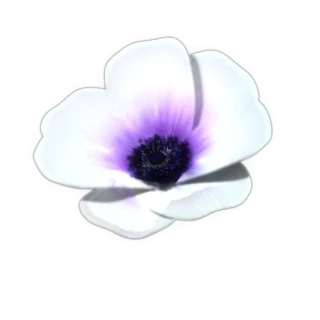
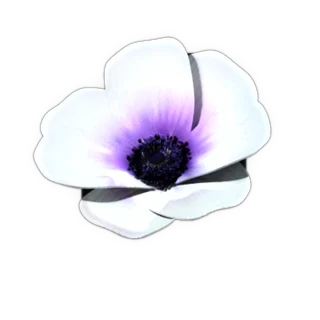
psyche-0.com: the anemone's looks 2 and 3 without the thin line across the white ring, and look 6's lower-petal shadow as deep and crisp as in the owner's model

diff --git a/assets/anemone.js b/assets/anemone.js
@@ -4,7 +4,7 @@
 (function(){
   var mark=document.querySelector("header.site .bar a.mark");
   if(!mark||document.querySelector(".anemone"))return;
-  var M={"size":320,"na":72,"ext":149,"looks":[{"name":"S_L","er":29.21,"prof":[130.4,129.8,128.3,123.7,107.9,108.8,107.9,106.7,105.5,101.9,97.3,94.3,92.2,89.4,84.3,78.2,71.9,63.7,58.5,54.0,52.8,55.2,59.1,63.4,67.6,70.9,72.8,74.3,75.5,77.3,83.7,93.1,102.5,109.5,113.7,116.4,121.0,123.1,121.0,111.3,97.0,103.4,115.2,119.5,115.8,113.1,111.6,107.9,100.7,96.1,96.7,97.9,97.3,96.1,95.8,97.9,101.0,102.8,101.9,100.4,108.5,115.5,118.5,121.0,123.7,123.7,119.8,113.1,108.2,123.1,128.3,129.8]},{"name":"S_F","er":30.89,"prof":[106.3,99.6,100.1,102.7,103.2,103.5,102.5,99.6,95.0,93.4,99.6,102.5,103.5,104.8,105.3,105.0,104.8,102.5,100.6,96.2,92.6,96.0,99.3,101.7,101.7,101.2,99.1,96.2,91.8,87.2,83.3,89.8,96.2,101.7,104.5,104.8,105.0,104.8,104.0,101.7,97.3,98.8,102.2,103.5,103.2,104.0,104.3,104.3,102.5,100.6,97.5,91.1,86.9,90.6,93.7,96.8,98.3,99.3,98.1,96.0,93.4,89.8,85.1,91.6,100.9,105.8,109.7,111.8,112.5,113.3,112.8,111.0]},{"name":"S_R","er":27.4,"prof":[101.3,98.9,98.1,96.5,94.4,89.2,82.9,74.7,68.9,71.0,72.3,72.9,72.6,72.9,73.1,73.1,72.3,72.6,78.6,85.8,93.6,100.0,102.6,104.7,106.5,109.2,110.5,110.2,107.3,101.0,97.3,108.6,114.7,117.6,117.6,116.8,114.7,108.9,110.0,111.8,112.1,110.0,108.9,110.0,110.7,109.4,106.5,101.5,97.9,102.3,104.2,104.7,106.3,106.8,103.6,98.9,93.6,96.5,107.1,113.9,115.5,116.0,116.3,116.3,114.4,111.5,104.7,98.9,103.4,105.0,104.4,103.1]},{"name":"W_R","er":32.65,"prof":[112.7,115.2,119.1,119.9,119.1,117.9,115.4,109.4,99.9,93.2,99.4,102.7,103.7,102.7,99.2,93.9,90.4,86.9,82.7,77.4,80.4,82.4,84.2,86.7,88.9,89.7,89.2,87.4,86.7,85.9,85.9,84.7,82.9,80.7,75.9,68.2,74.9,82.7,89.2,93.9,97.7,100.2,103.2,103.9,101.9,105.2,110.2,112.4,110.9,108.2,105.4,101.4,94.4,103.9,110.9,113.4,114.7,113.9,113.9,114.7,114.4,107.9,95.4,93.4,101.9,107.9,113.2,116.1,116.9,117.1,118.1,116.1]},{"name":"W_F","er":29.98,"prof":[111.1,108.5,102.4,94.5,97.6,102.4,105.5,105.2,104.5,104.0,101.7,98.1,92.7,86.9,85.4,87.4,88.2,88.7,89.4,89.7,89.7,87.6,84.3,80.0,77.5,86.1,92.7,97.6,100.4,102.9,104.5,105.5,105.0,103.7,102.2,100.4,97.1,90.7,93.8,98.9,102.2,104.2,105.2,105.7,104.0,100.1,100.4,105.2,106.5,106.8,106.8,106.0,103.4,100.9,96.8,89.9,92.2,100.9,105.7,108.0,108.8,109.6,109.6,108.8,106.5,104.0,102.4,107.5,110.1,111.9,112.9,112.6]},{"name":"W_L","er":27.13,"prof":[82.6,85.2,90.9,94.3,94.6,93.7,90.6,83.7,77.5,73.8,72.3,70.6,69.2,66.9,64.4,61.5,64.4,67.2,70.3,73.5,77.8,81.5,83.7,85.2,85.7,86.6,88.9,91.4,94.3,94.8,93.7,83.2,84.0,98.8,113.3,121.3,126.2,125.6,121.0,124.2,124.5,120.5,114.8,112.2,109.1,102.5,94.0,96.8,109.4,113.9,117.1,119.9,120.5,120.8,121.9,123.0,119.3,108.5,115.3,121.3,123.9,123.3,122.7,123.3,122.7,119.0,115.1,116.8,116.5,115.1,110.5,97.7]},{"name":"P_L","er":31.34,"prof":[115.1,108.5,117.6,125.0,129.3,131.0,130.4,128.2,119.0,111.4,102.8,92.0,83.2,80.6,77.8,73.5,70.1,68.4,66.9,65.5,63.8,61.5,60.9,63.2,64.6,67.8,70.9,74.3,79.2,85.7,92.8,98.3,101.4,104.0,107.1,107.1,104.5,101.4,109.4,117.6,123.9,125.6,123.3,116.5,107.4,91.4,101.4,106.5,107.4,107.7,107.4,106.2,104.2,102.0,99.7,99.7,101.4,104.0,106.8,109.4,108.5,107.7,106.5,105.7,103.7,98.8,107.4,113.6,116.5,116.2,115.9,116.2]},{"name":"P_F","er":33.0,"prof":[97.3,98.8,98.3,97.0,96.0,94.0,90.2,85.6,87.1,93.0,97.5,101.6,103.7,104.2,104.7,105.7,104.7,101.9,97.0,91.4,84.6,83.0,89.6,93.0,94.2,95.5,96.3,96.3,95.5,93.5,99.1,104.7,108.0,110.5,112.1,111.8,111.3,109.5,106.2,101.1,94.5,96.3,100.1,101.1,100.9,101.1,101.1,99.1,96.0,91.7,88.4,95.8,100.9,103.4,104.9,107.0,108.2,108.2,106.2,102.6,96.5,100.9,104.7,106.7,108.0,109.5,110.3,109.8,107.5,102.9,95.8,94.7]},{"name":"P_R","er":31.89,"prof":[96.5,92.3,87.7,84.0,80.7,76.8,72.1,69.3,72.6,76.5,80.1,82.7,85.3,88.7,91.0,92.9,93.9,95.4,97.0,97.0,94.4,95.7,99.9,104.3,107.9,110.2,111.8,113.1,112.6,109.2,100.1,79.6,92.9,104.3,112.8,116.7,117.5,117.0,114.4,111.8,108.9,104.8,101.9,103.5,103.7,103.0,101.9,100.9,96.7,90.8,83.5,93.1,103.5,109.5,112.8,112.6,111.8,110.7,109.5,105.0,103.2,110.0,113.3,114.9,115.4,115.4,113.9,108.9,102.2,98.3,99.1,98.6]},{"name":"C_R","er":43.51,"prof":[109.8,109.2,107.1,106.6,106.4,103.7,99.0,91.9,82.5,82.8,84.3,85.4,85.4,85.1,84.9,84.3,82.5,88.8,95.6,102.7,108.2,110.3,111.6,112.4,113.9,113.9,111.9,106.6,95.9,101.6,108.4,112.1,113.2,111.6,110.0,106.6,99.0,100.9,101.6,101.4,99.3,97.2,96.7,97.2,97.7,96.4,93.3,88.5,83.8,88.0,90.6,91.7,92.7,94.8,95.4,93.3,89.6,85.1,84.3,97.2,106.6,110.3,111.6,112.9,113.9,113.7,112.9,109.0,101.9,106.1,108.7,110.3]},{"name":"C_F","er":42.02,"prof":[100.7,93.7,95.7,97.8,98.3,98.3,97.6,95.0,90.8,86.2,93.7,97.8,99.6,100.4,101.2,102.2,102.2,101.7,99.6,97.6,92.9,93.2,97.3,100.9,102.7,102.7,101.7,99.6,96.8,92.4,87.5,90.3,98.1,104.0,107.9,109.7,109.7,109.7,109.5,107.1,102.5,104.0,107.6,108.2,108.2,108.4,108.7,107.9,105.8,103.2,98.6,90.1,91.3,95.0,97.3,99.1,100.1,99.1,96.8,93.7,90.1,85.1,85.7,95.2,101.4,105.1,107.6,108.7,109.2,108.9,107.9,105.6]},{"name":"C_L","er":43.61,"prof":[117.4,118.9,120.4,120.4,119.2,113.5,102.1,106.0,106.3,106.6,105.7,103.9,101.2,100.0,98.8,97.0,92.5,87.4,82.3,75.1,70.3,67.0,70.3,76.0,82.3,86.5,88.6,90.1,91.9,96.1,105.7,115.0,121.6,124.9,127.6,131.5,130.9,124.9,107.2,103.3,115.0,119.5,117.4,112.0,109.0,104.5,96.4,89.2,88.6,88.0,86.8,84.4,82.9,82.6,83.2,85.6,86.5,85.6,83.5,86.8,92.8,97.3,100.3,102.7,105.4,107.5,105.7,102.4,97.3,92.2,108.1,114.7]}],"rot":[15.0,-45.0,45.0,-35.0,-40.0,35.0,-25.0,0.0,30.0,20.0,-15.0,0.0]};
+  var M={"size":320,"na":72,"ext":149,"looks":[{"name":"S_L","er":29.21,"prof":[130.4,129.8,128.3,123.7,107.9,108.8,107.9,106.7,105.5,101.9,97.3,94.3,92.2,89.4,84.3,78.2,71.9,63.7,58.5,54.0,52.8,55.2,59.1,63.4,67.6,70.9,72.8,74.3,75.5,77.3,83.7,93.1,102.5,109.5,113.7,116.4,121.0,123.1,121.0,111.3,97.0,103.4,115.2,119.5,115.8,113.1,111.6,107.9,100.7,96.1,96.7,97.9,97.3,96.1,95.8,97.9,101.0,102.8,101.9,100.4,108.5,115.5,118.5,121.0,123.7,123.7,119.8,113.1,108.2,123.1,128.3,129.8]},{"name":"S_F","er":30.79,"prof":[106.3,99.3,99.9,102.4,103.2,103.2,102.4,99.3,94.7,93.1,99.3,102.4,103.5,104.5,105.0,105.0,104.5,102.4,100.4,96.8,92.6,96.0,99.1,101.7,101.7,101.1,99.3,96.0,92.1,87.4,83.0,89.8,96.5,101.9,104.8,105.0,105.0,105.0,104.3,101.9,97.5,98.8,102.2,103.7,103.5,104.0,104.3,104.5,102.7,100.6,97.5,91.3,86.9,90.5,93.9,96.8,98.3,99.3,98.3,96.0,93.4,89.8,84.9,91.8,100.9,105.8,109.4,112.0,112.5,113.3,112.5,110.7]},{"name":"S_R","er":27.28,"prof":[101.3,98.9,97.9,96.0,94.2,89.2,82.9,74.5,68.9,71.0,72.4,72.6,72.4,72.6,72.9,73.1,72.1,72.4,78.4,85.5,93.7,99.7,102.6,104.5,106.3,109.2,110.8,110.2,107.3,101.0,97.1,108.7,114.2,117.6,117.6,116.8,114.7,108.9,110.2,111.8,112.1,110.2,108.9,110.0,110.8,109.7,106.8,101.8,98.1,102.3,104.5,104.7,106.6,106.8,103.9,98.9,93.7,96.6,107.1,113.9,115.8,116.0,116.3,116.6,114.4,111.6,104.7,98.9,103.9,104.7,104.5,103.1]},{"name":"W_R","er":32.65,"prof":[112.7,115.2,119.1,119.9,119.1,117.9,115.4,109.4,99.9,93.2,99.4,102.7,103.7,102.7,99.2,93.9,90.4,86.9,82.7,77.4,80.4,82.4,84.2,86.7,88.9,89.7,89.2,87.4,86.7,85.9,85.9,84.7,82.9,80.7,75.9,68.2,74.9,82.7,89.2,93.9,97.7,100.2,103.2,103.9,101.9,105.2,110.2,112.4,110.9,108.2,105.4,101.4,94.4,103.9,110.9,113.4,114.7,113.9,113.9,114.7,114.4,107.9,95.4,93.4,101.9,107.9,113.2,116.1,116.9,117.1,118.1,116.1]},{"name":"W_F","er":29.98,"prof":[111.1,108.5,102.4,94.5,97.6,102.4,105.5,105.2,104.5,104.0,101.7,98.1,92.7,86.9,85.4,87.4,88.2,88.7,89.4,89.7,89.7,87.6,84.3,80.0,77.5,86.1,92.7,97.6,100.4,102.9,104.5,105.5,105.0,103.7,102.2,100.4,97.1,90.7,93.8,98.9,102.2,104.2,105.2,105.7,104.0,100.1,100.4,105.2,106.5,106.8,106.8,106.0,103.4,100.9,96.8,89.9,92.2,100.9,105.7,108.0,108.8,109.6,109.6,108.8,106.5,104.0,102.4,107.5,110.1,111.9,112.9,112.6]},{"name":"W_L","er":27.5,"prof":[86.4,86.7,90.1,94.1,94.6,93.5,90.7,84.1,77.6,73.9,72.5,70.8,69.3,67.1,64.5,61.7,64.5,67.1,70.5,73.6,77.9,81.6,83.8,85.3,85.8,86.7,89.0,91.5,94.4,94.9,93.5,87.0,84.7,98.6,114.0,121.4,125.9,125.3,120.8,123.9,124.2,119.7,114.5,111.7,108.6,102.0,93.2,96.6,108.9,113.4,116.5,119.4,119.9,120.2,121.4,122.5,118.8,110.6,114.8,120.8,123.3,122.8,122.2,122.8,122.5,118.8,114.5,116.8,116.2,114.8,110.3,98.1]},{"name":"P_L","er":31.34,"prof":[115.1,108.5,117.6,125.0,129.3,131.0,130.4,128.2,119.0,111.4,102.8,92.0,83.2,80.6,77.8,73.5,70.1,68.4,66.9,65.5,63.8,61.5,60.9,63.2,64.6,67.8,70.9,74.3,79.2,85.7,92.8,98.3,101.4,104.0,107.1,107.1,104.5,101.4,109.4,117.6,123.9,125.6,123.3,116.5,107.4,91.4,101.4,106.5,107.4,107.7,107.4,106.2,104.2,102.0,99.7,99.7,101.4,104.0,106.8,109.4,108.5,107.7,106.5,105.7,103.7,98.8,107.4,113.6,116.5,116.2,115.9,116.2]},{"name":"P_F","er":33.0,"prof":[97.3,98.8,98.3,97.0,96.0,94.0,90.2,85.6,87.1,93.0,97.5,101.6,103.7,104.2,104.7,105.7,104.7,101.9,97.0,91.4,84.6,83.0,89.6,93.0,94.2,95.5,96.3,96.3,95.5,93.5,99.1,104.7,108.0,110.5,112.1,111.8,111.3,109.5,106.2,101.1,94.5,96.3,100.1,101.1,100.9,101.1,101.1,99.1,96.0,91.7,88.4,95.8,100.9,103.4,104.9,107.0,108.2,108.2,106.2,102.6,96.5,100.9,104.7,106.7,108.0,109.5,110.3,109.8,107.5,102.9,95.8,94.7]},{"name":"P_R","er":31.89,"prof":[96.5,92.3,87.7,84.0,80.7,76.8,72.1,69.3,72.6,76.5,80.1,82.7,85.3,88.7,91.0,92.9,93.9,95.4,97.0,97.0,94.4,95.7,99.9,104.3,107.9,110.2,111.8,113.1,112.6,109.2,100.1,79.6,92.9,104.3,112.8,116.7,117.5,117.0,114.4,111.8,108.9,104.8,101.9,103.5,103.7,103.0,101.9,100.9,96.7,90.8,83.5,93.1,103.5,109.5,112.8,112.6,111.8,110.7,109.5,105.0,103.2,110.0,113.3,114.9,115.4,115.4,113.9,108.9,102.2,98.3,99.1,98.6]},{"name":"C_R","er":43.51,"prof":[109.8,109.2,107.1,106.6,106.4,103.7,99.0,91.9,82.5,82.8,84.3,85.4,85.4,85.1,84.9,84.3,82.5,88.8,95.6,102.7,108.2,110.3,111.6,112.4,113.9,113.9,111.9,106.6,95.9,101.6,108.4,112.1,113.2,111.6,110.0,106.6,99.0,100.9,101.6,101.4,99.3,97.2,96.7,97.2,97.7,96.4,93.3,88.5,83.8,88.0,90.6,91.7,92.7,94.8,95.4,93.3,89.6,85.1,84.3,97.2,106.6,110.3,111.6,112.9,113.9,113.7,112.9,109.0,101.9,106.1,108.7,110.3]},{"name":"C_F","er":42.02,"prof":[100.7,93.7,95.7,97.8,98.3,98.3,97.6,95.0,90.8,86.2,93.7,97.8,99.6,100.4,101.2,102.2,102.2,101.7,99.6,97.6,92.9,93.2,97.3,100.9,102.7,102.7,101.7,99.6,96.8,92.4,87.5,90.3,98.1,104.0,107.9,109.7,109.7,109.7,109.5,107.1,102.5,104.0,107.6,108.2,108.2,108.4,108.7,107.9,105.8,103.2,98.6,90.1,91.3,95.0,97.3,99.1,100.1,99.1,96.8,93.7,90.1,85.1,85.7,95.2,101.4,105.1,107.6,108.7,109.2,108.9,107.9,105.6]},{"name":"C_L","er":43.61,"prof":[117.4,118.9,120.4,120.4,119.2,113.5,102.1,106.0,106.3,106.6,105.7,103.9,101.2,100.0,98.8,97.0,92.5,87.4,82.3,75.1,70.3,67.0,70.3,76.0,82.3,86.5,88.6,90.1,91.9,96.1,105.7,115.0,121.6,124.9,127.6,131.5,130.9,124.9,107.2,103.3,115.0,119.5,117.4,112.0,109.0,104.5,96.4,89.2,88.6,88.0,86.8,84.4,82.9,82.6,83.2,85.6,86.5,85.6,83.5,86.8,92.8,97.3,100.3,102.7,105.4,107.5,105.7,102.4,97.3,92.2,108.1,114.7]}],"rot":[15.0,-45.0,45.0,-35.0,-40.0,35.0,-25.0,0.0,30.0,20.0,-15.0,0.0]};
   var LOOKS=M.looks,NA=M.na,S=M.size,ROT=M.rot,N=LOOKS.length;
   var HOLD=30000,TRANS=90000,SEG=HOLD+TRANS,PERIOD=SEG*N;
   var css=document.createElement("style");

diff --git a/map.html b/map.html
@@ -104,6 +104,6 @@ If you don’t win: Signal completed.</pre>
   <span>psyche-0.com</span>
 </div></div></footer>
 <script src="assets/console.js?v=20261026a"></script>
-<script src="assets/anemone.js?v=20261105d" defer></script>
+<script src="assets/anemone.js?v=20261105e" defer></script>
 </body>
 </html>

diff --git a/net.html b/net.html
@@ -219,7 +219,7 @@
   <span>psyche-0.com</span>
 </div></div></footer>
 <script src="assets/console.js?v=20261026a"></script>
-<script src="assets/anemone.js?v=20261105d" defer></script>
+<script src="assets/anemone.js?v=20261105e" defer></script>
 <script>
 (function(){
 var NS="http://www.w3.org/2000/svg";

diff --git a/engage.html b/engage.html
@@ -140,6 +140,6 @@
   <span>psyche-0.com</span>
 </div></div></footer>
 <script src="assets/console.js?v=20261026a"></script>
-<script src="assets/anemone.js?v=20261105d" defer></script>
+<script src="assets/anemone.js?v=20261105e" defer></script>
 </body>
 </html>

diff --git a/about.html b/about.html
@@ -56,6 +56,6 @@
   <span>psyche-0.com</span>
 </div></div></footer>
 <script src="assets/console.js?v=20261026a"></script>
-<script src="assets/anemone.js?v=20261105d" defer></script>
+<script src="assets/anemone.js?v=20261105e" defer></script>
 </body>
 </html>

diff --git a/index.html b/index.html
@@ -63,6 +63,6 @@
   <span>psyche-0.com</span>
 </div></div></footer>
 <script src="assets/console.js?v=20261026a"></script>
-<script src="assets/anemone.js?v=20261105d" defer></script>
+<script src="assets/anemone.js?v=20261105e" defer></script>
 </body>
 </html>

diff --git a/intelligence.html b/intelligence.html
@@ -79,6 +79,6 @@
   <span>psyche-0.com</span>
 </div></div></footer>
 <script src="assets/console.js?v=20261026a"></script>
-<script src="assets/anemone.js?v=20261105d" defer></script>
+<script src="assets/anemone.js?v=20261105e" defer></script>
 </body>
 </html>

diff --git a/missions.html b/missions.html
@@ -72,6 +72,6 @@
   <span>psyche-0.com</span>
 </div></div></footer>
 <script src="assets/console.js?v=20261026a"></script>
-<script src="assets/anemone.js?v=20261105d" defer></script>
+<script src="assets/anemone.js?v=20261105e" defer></script>
 </body>
 </html>

diff --git a/paper.html b/paper.html
@@ -65,6 +65,6 @@
   <span>psyche-0.com</span>
 </div></div></footer>
 <script src="assets/console.js?v=20261026a"></script>
-<script src="assets/anemone.js?v=20261105d" defer></script>
+<script src="assets/anemone.js?v=20261105e" defer></script>
 </body>
 </html>

diff --git a/sqcd-1.html b/sqcd-1.html
@@ -99,6 +99,6 @@
   <span>psyche-0.com</span>
 </div></div></footer>
 <script src="assets/console.js?v=20261026a"></script>
-<script src="assets/anemone.js?v=20261105d" defer></script>
+<script src="assets/anemone.js?v=20261105e" defer></script>
 </body>
 </html>

diff --git a/404.html b/404.html
@@ -32,6 +32,6 @@
     <div class="row-cta"><a class="ghost" href="/">Overview</a></div>
   </div>
 </section>
-<script src="assets/anemone.js?v=20261105d" defer></script>
+<script src="assets/anemone.js?v=20261105e" defer></script>
 </body>
 </html>
